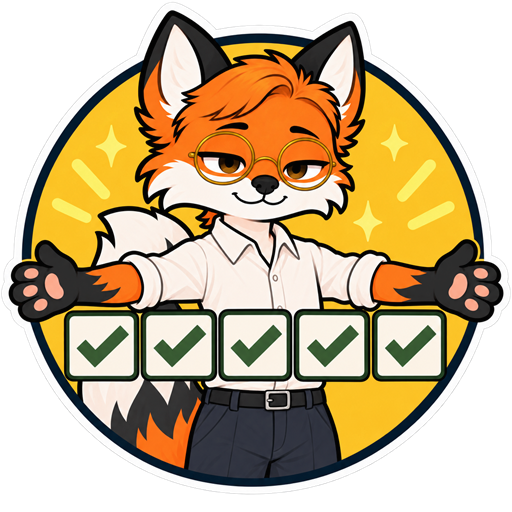
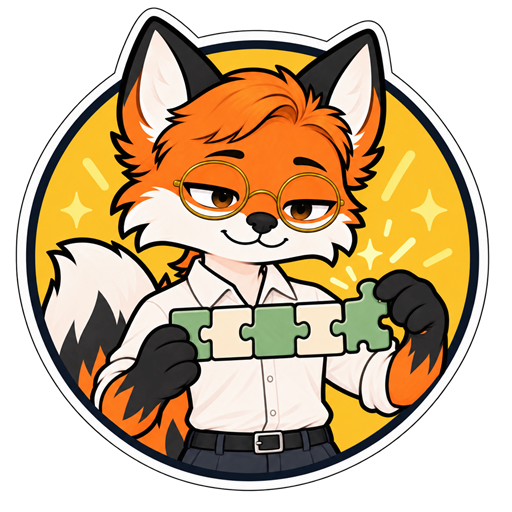
feat: Top five, Checklist done and a new Whole exercise badge drawing
Whole exercise is now a five-piece jigsaw, so it no longer looks like Checklist
done. Twenty of the 21 badges are drawn.

diff --git a/assets/js/stickers.js b/assets/js/stickers.js
@@ -127,7 +127,7 @@
     ["five-days", "Five days", "Open CLY English on five different days.", "#fff1e3", "calendar"],
     ["three-in-a-row", "Three in a row", "Open CLY English three days running.", "#dce8f7", "sun"]
   ];
-  var DRAWN = ["streak-alive", "streak-5", "streak-15", "first-challenge", "comeback", "personal-best", "climber", "full-marks", "first-set", "ten-sets", "whole-exercise", "second-try",
+  var DRAWN = ["streak-alive", "streak-5", "streak-15", "first-challenge", "comeback", "personal-best", "climber", "full-marks", "top-five", "first-set", "ten-sets", "whole-exercise", "second-try", "checklist-done",
     "step-by-step", "final-lap", "to-the-top", "tip-collector", "five-days", "three-in-a-row"];
   var BY_ID = {};
   BADGES.forEach(function (b) { BY_ID[b[0]] = b; });
